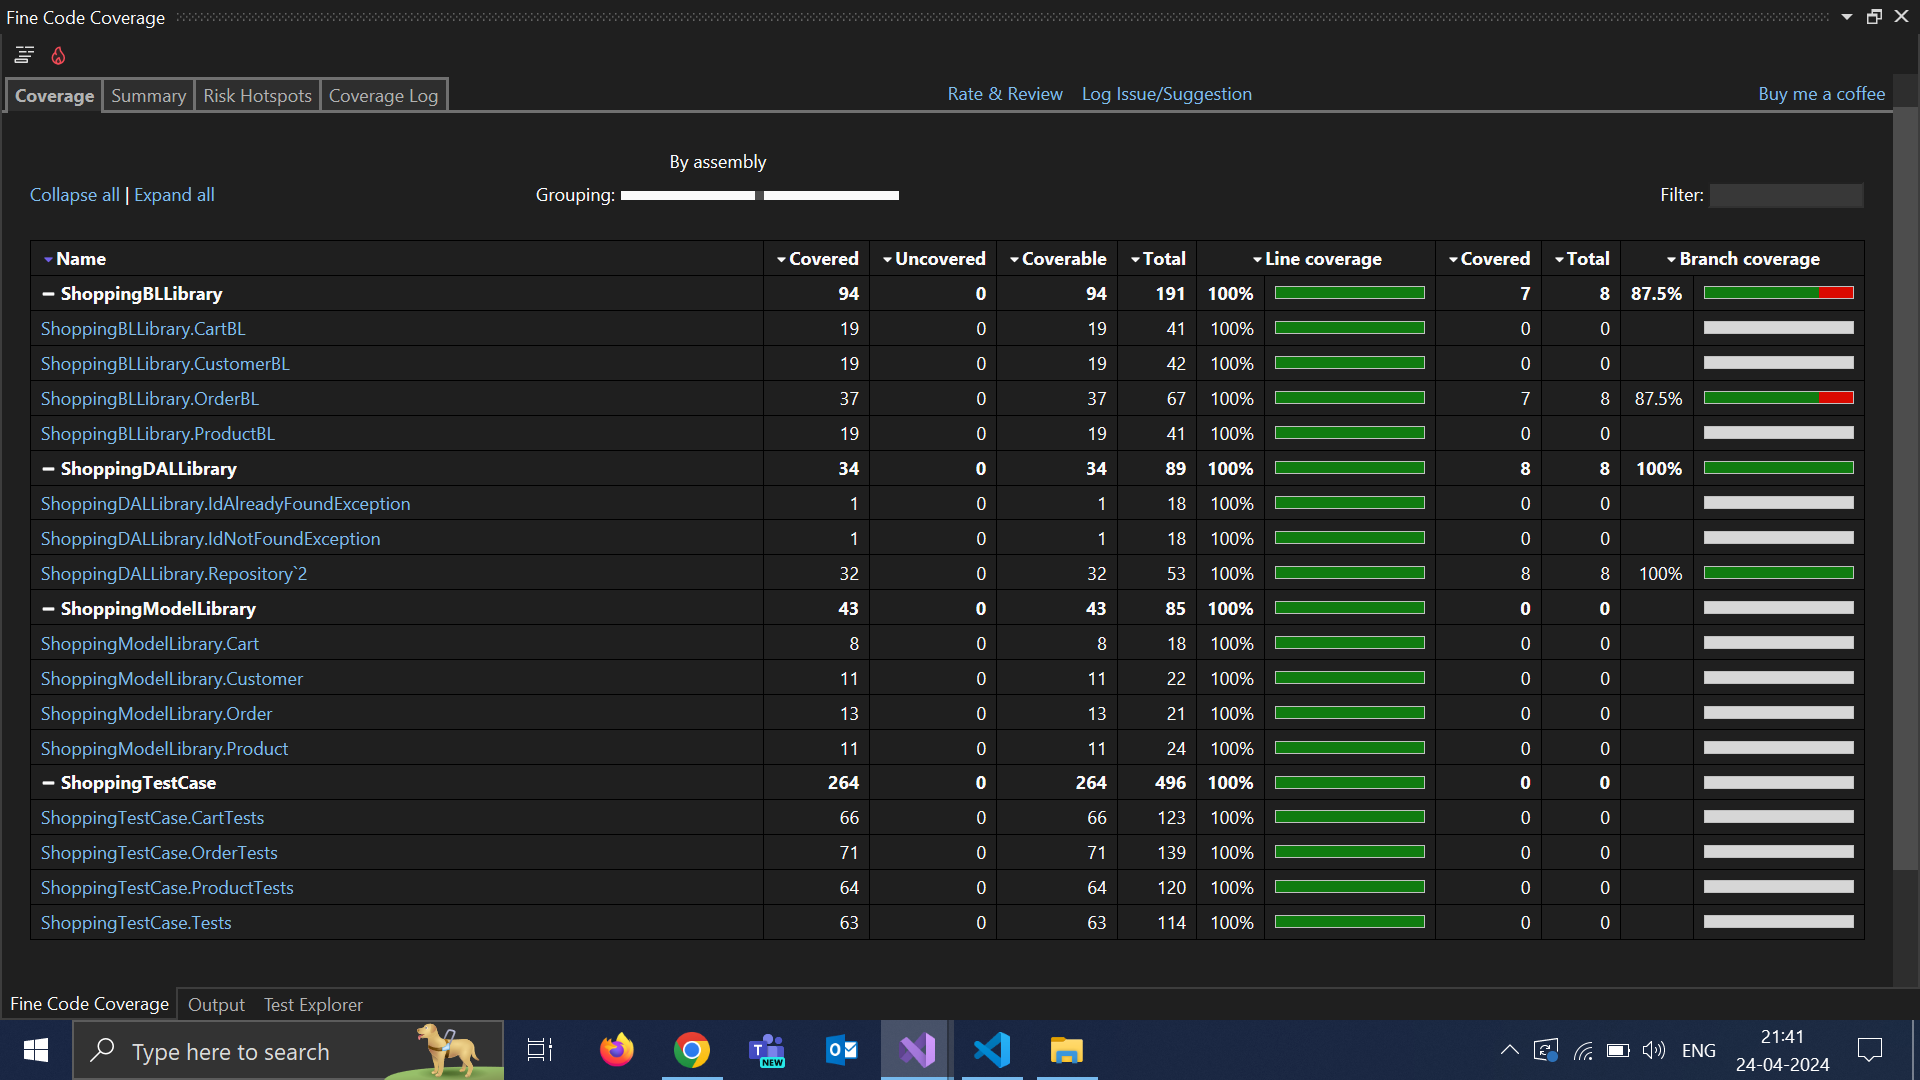
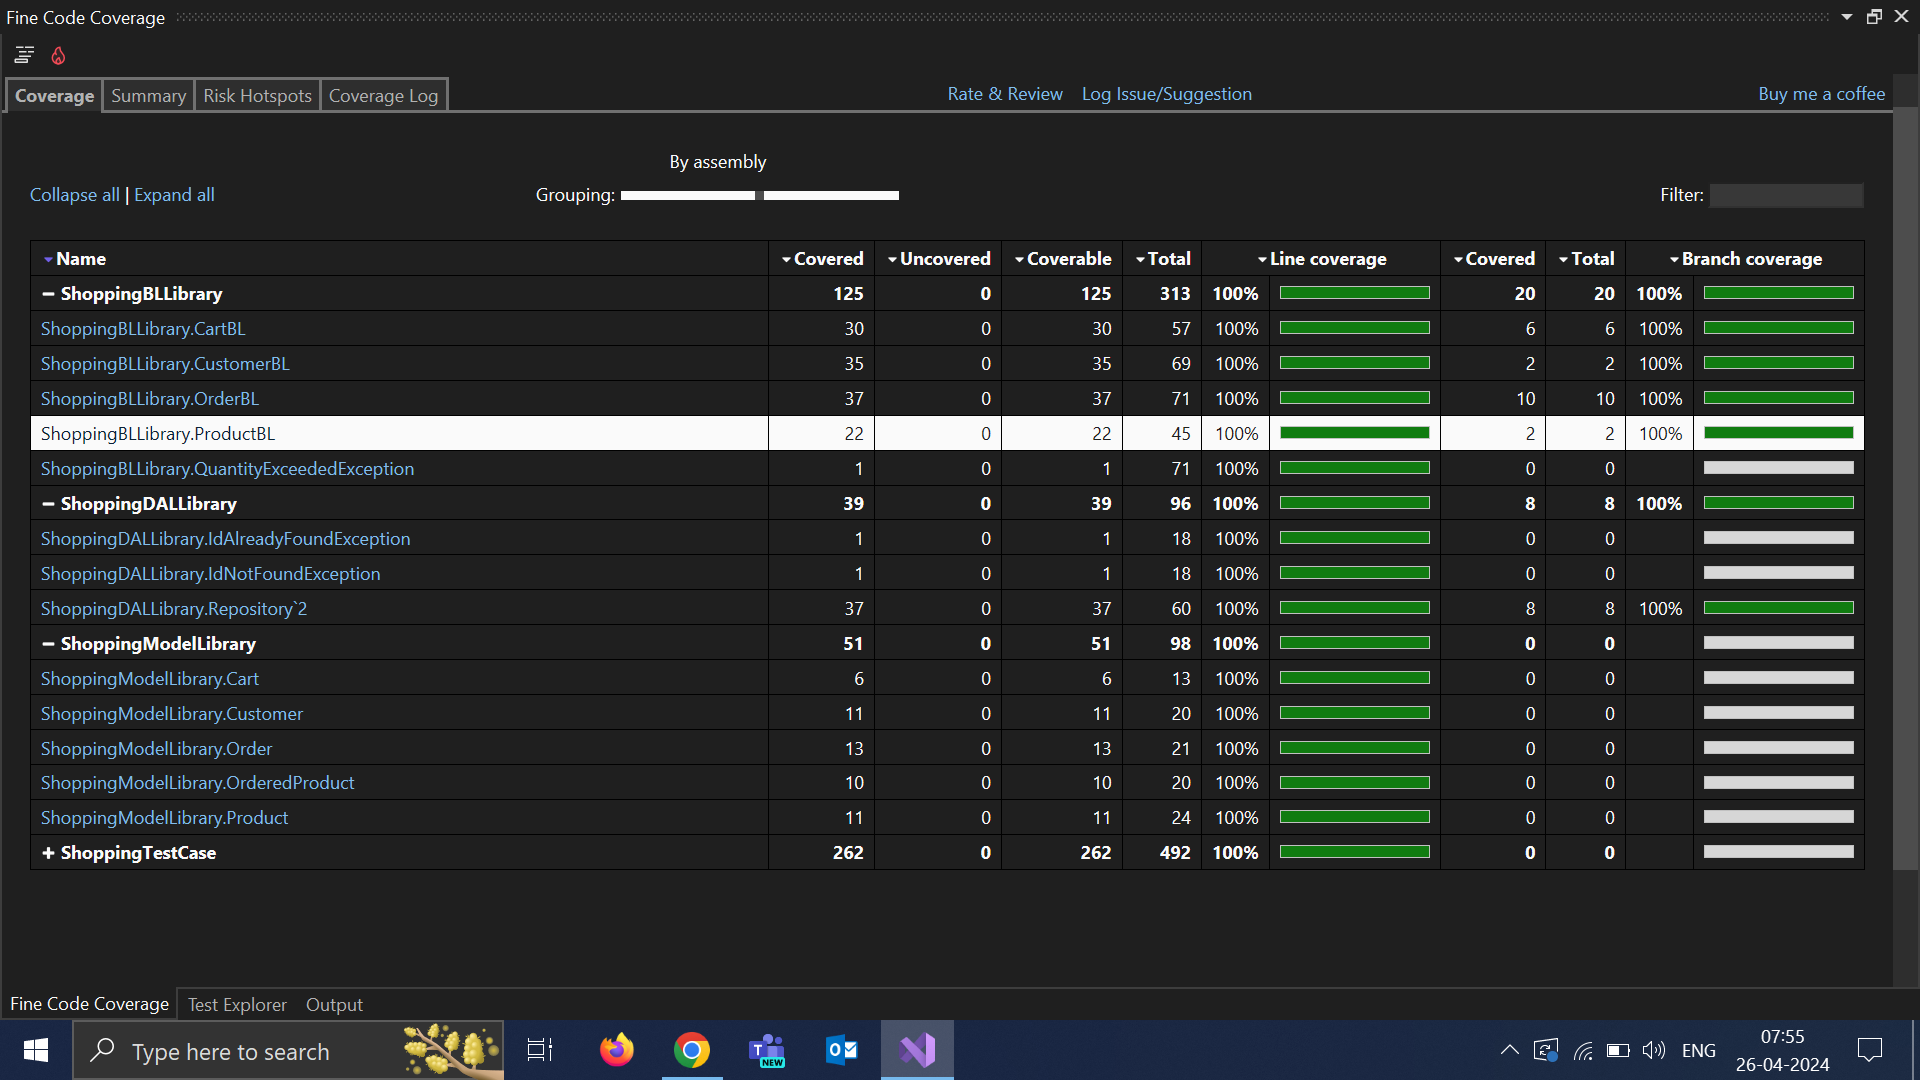
Test cases updated for Cart and Order

diff --git a/Day11/ShoppingSolution/ShoppingTestCase/Order.test.cs b/Day11/ShoppingSolution/ShoppingTestCase/Order.test.cs
@@ -32,9 +32,50 @@ namespace ShoppingTestCase
                 _orderService.AddOrdersToCustomer(1, new List<Order>());
             });
         }
-        [Test]
 
-        public void CreateOrderSuccess()
+        [Test]
+       public void CreateOrderSuccess()
+        {
+            int customerId = _customerService.AddCustomer("Ram");
+            Customer customer = _customerService.GetCustomerById(customerId);
+
+            Product product = new Product(1, "Laptop", Currency.Rupee, 50000);
+            OrderedProduct orderedProduct = new OrderedProduct(product, 50000, 50000, 5);
+
+            _orderService.CreateOrder(customer.OrdersId, new Order(1, orderedProduct, DateTime.Now, Currency.Rupee, 50000));
+
+        }
+
+        [Test]
+        public void CreateOrderFail()
+        {
+            int customerId = _customerService.AddCustomer("Ram");
+            Customer customer = _customerService.GetCustomerById(customerId);
+
+            Product product = new Product(1, "Laptop", Currency.Rupee, 50000);
+            OrderedProduct orderedProduct = new OrderedProduct(product, 50000, 50000, 6);
+
+            Assert.Throws<QuantityExceededException>(() =>
+            {
+                _orderService.CreateOrder(customer.OrdersId, new Order(1, orderedProduct, DateTime.Now, Currency.Rupee, 50000));
+            });
+        }
+
+            [Test]
+            public void CreateOrderLimitBelow100TestFail()
+            {
+                int customerId = _customerService.AddCustomer("Ram");
+                Customer customer = _customerService.GetCustomerById(customerId);
+
+                Product product = new Product(1, "Pen", Currency.Rupee, 50);
+                OrderedProduct orderedProduct = new OrderedProduct(product, 50, 50, 1);
+
+                _orderService.CreateOrder(customer.OrdersId, new Order(1, orderedProduct, DateTime.Now, Currency.Rupee, orderedProduct.Price* orderedProduct.Quantity));
+
+            }
+
+        [Test]
+        public void DeleteSuccesTest()
         {
             int customerId = _customerService.AddCustomer("Ram");
             Customer customer = _customerService.GetCustomerById(customerId);
@@ -44,6 +85,55 @@ namespace ShoppingTestCase
 
             _orderService.CreateOrder(customer.OrdersId, new Order(1, orderedProduct, DateTime.Now, Currency.Rupee, 50000));
 
+            _orderService.DeleteOrder(customerId);
+        }
+
+        [Test] 
+        public void GetAllSuccessTest()
+        {
+            List<List<Order>> orders = _orderService.GetAllOrders();
+
+            Assert.NotNull(orders);
+        }
+
+        [Test]
+         public void GetByIdSuccessTest()
+        {
+            int customerId = _customerService.AddCustomer("Ram");
+            Customer customer = _customerService.GetCustomerById(customerId);
+
+            Product product = new Product(1, "Laptop", Currency.Rupee, 50000);
+            OrderedProduct orderedProduct = new OrderedProduct(product, 50000, 50000, 1);
+
+            _orderService.CreateOrder(customer.OrdersId, new Order(1, orderedProduct, DateTime.Now, Currency.Rupee, 50000));
+
+            List<Order> fetchedOrder = _orderService.GetOrderById(customer.OrdersId);
+
+            Assert.AreEqual(1, fetchedOrder.Count);
+        }
+
+        [Test]
+        public void GetByIdFailTest()
+        {
+
+            List<Order> orders = _orderService.GetOrderById(999);
+
+            Assert.Null(orders);
+        }
+
+        [Test]
+        public void UpdateSuccesTest()
+        {
+            int customerId = _customerService.AddCustomer("Ram");
+            Customer customer = _customerService.GetCustomerById(customerId);
+
+            Product product = new Product(1, "Laptop", Currency.Rupee, 50000);
+            OrderedProduct orderedProduct = new OrderedProduct(product, 50000, 50000, 1);
+
+            _orderService.CreateOrder(customer.OrdersId, new Order(1, orderedProduct, DateTime.Now, Currency.Rupee, 50000));
+
+            List<Order> orders = new List<Order>();
+            _orderService.UpdateOrder(customer.OrdersId, orders);
         }
 
     }

diff --git a/Day11/ShoppingSolution/ShoppingTestCase/Cart.test.cs b/Day11/ShoppingSolution/ShoppingTestCase/Cart.test.cs
@@ -58,5 +58,76 @@ namespace ShoppingTestCase
 
         }
 
+        [Test]
+        public void DeleteCart()
+        {
+            Cart cart = new Cart(1, new List<Product>());
+
+            _cartService.AddCartToCustomer(1, cart);
+
+            _cartService.DeleteCart(1);
+        }
+
+        [Test]
+        public void DeleteCartFail()
+        {
+            Assert.Throws<IdNotFoundException>(() =>
+            {
+                _cartService.DeleteCart(999);
+            });
+        }
+
+        [Test]
+        public void GetAllSuccess()
+        {
+            List<Cart> carts = _cartService.GetAllCarts();
+
+            Assert.NotNull(carts);
+        }
+
+        [Test]
+        public void GetByIdSuccess()
+        {
+            Cart cart = new Cart(1, new List<Product>());
+
+            _cartService.AddCartToCustomer(1, cart);
+
+            Cart fetchedCart = _cartService.GetCartById(1);
+
+            Assert.AreEqual(cart.Id, fetchedCart.Id);
+        }
+
+        [Test]
+        public void GetByIdFail()
+        {
+            Assert.Throws<IdNotFoundException>(() =>
+            {
+                _cartService.GetCartById(999);
+            });
+        }
+
+        [Test]
+        public void UpdateSuccess()
+        {
+            Cart cart = new Cart(1, new List<Product>());
+
+            _cartService.AddCartToCustomer(1, cart);
+
+            _cartService.UpdateCart(1, cart);
+        }
+
+        [Test]
+        public void UpdateFail()
+        {
+            Cart cart = new Cart(1, new List<Product>());
+
+            _cartService.AddCartToCustomer(1, cart);
+
+            Assert.Throws<IdNotFoundException>(() =>
+            {
+                _cartService.UpdateCart(999, cart);
+            });
+        }
+
     }
 }

diff --git a/Day11/ShoppingSolution/ShoppingBLLibrary/CartBL.cs b/Day11/ShoppingSolution/ShoppingBLLibrary/CartBL.cs
@@ -41,7 +41,11 @@ namespace ShoppingBLLibrary
 
         public Cart GetCartById(int cartId)
         {
-            return _repository.GetById(cartId);
+            Cart cart = _repository.GetById(cartId);
+
+            if (cart == null)
+                throw new IdNotFoundException("Id not found");
+            else return cart;
         }
 
         public void UpdateCart(int cartId, Cart cart)

diff --git a/Day11/ShoppingSolution/ShoppingBLLibrary/OrderBL.cs b/Day11/ShoppingSolution/ShoppingBLLibrary/OrderBL.cs
@@ -36,7 +36,7 @@ namespace ShoppingBLLibrary
             {
                 orderValue += 100;
             }
-            else if (order.Product.Quantity == 3 && orderValue >= 1500)
+            else if (order.Product.Quantity >= 3 && orderValue >= 1500)
             {
                 orderValue *= 0.95;
             }

diff --git a/Day11/ShoppingSolution/ShoppingModelLibrary/OrderedProduct.cs b/Day11/ShoppingSolution/ShoppingModelLibrary/OrderedProduct.cs
@@ -8,7 +8,6 @@
         public double TotalAmount { get; set; }
 
         public double Price { get; set; }
-
         public int Quantity { get; set; }
 
         public OrderedProduct(Product product, double amount,double price, int quantity)
